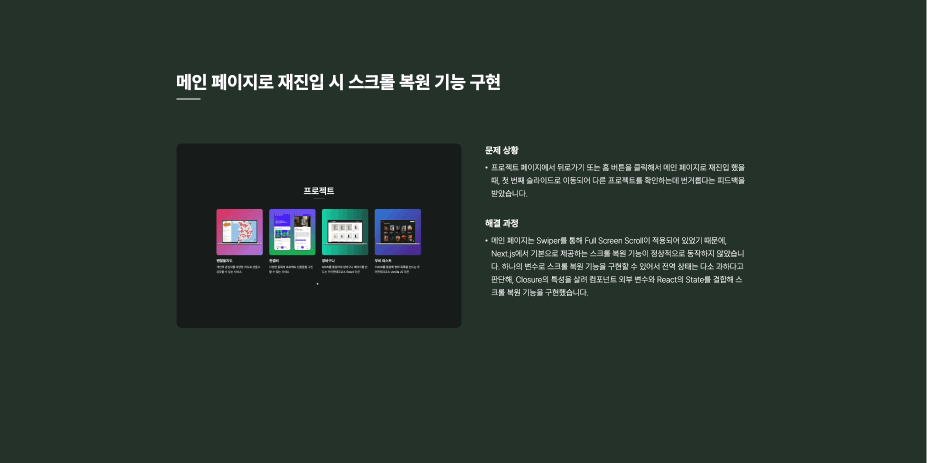
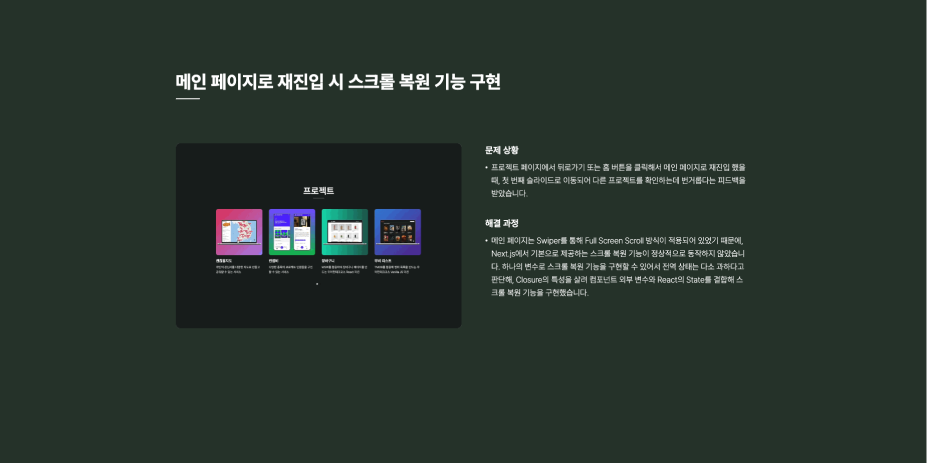
docs: 포트폴리오 파트 해결 과정 설명 보완

diff --git a/src/constants/details.tsx b/src/constants/details.tsx
@@ -945,7 +945,7 @@ const DETAILS: Detail = {
         {
           heading: '해결 과정',
           descriptions: [
-            'Thumb Swiper 기능을 활용하여 프로젝트 페이지 구조를 볼 수 있고 해당 페이지로 이동할 수 있는 네비게이션 기능을 구현해 사용자가 원하는 페이지를 보다 빠르고 간편하게 이동할 수 있도록 했습니다.',
+            'Thumb Swiper 기능과 Mouse Enter 이벤트를 활용하여 프로젝트 페이지 구조를 볼 수 있고 해당 페이지로 이동할 수 있는 네비게이션 기능을 구현했습니다. 이를 통해, 사용자가 원하는 페이지를 보다 빠르고 간편하게 이동할 수 있도록 했습니다.',
           ],
         },
       ],
@@ -965,7 +965,7 @@ const DETAILS: Detail = {
         {
           heading: '해결 과정',
           descriptions: [
-            '페이지마다 가려진 요소의 유무를 파악하여 최초 접속에 한에서 가려진 요소의 일부를 화면에 잠시 노출시키는 힌트 기능을 구현했습니다. 이를 통해 사용자가 가려진 요소를 인지하는데 도움이 되도록 했습니다.',
+            'React의 State를 통해 사용자의 현재 슬라이드 위치를 파악해 해당 페이지에 가려진 요소가 있고 최초 접속한 경우라면, 가려진 요소의 일부를 화면에 잠시 노출시키는 힌트 기능을 구현했습니다. 이를 통해 사용자가 가려진 요소를 인지하는데 도움이 되도록 했습니다.',
           ],
         },
       ],
@@ -985,7 +985,7 @@ const DETAILS: Detail = {
         {
           heading: '해결 과정',
           descriptions: [
-            '메인 페이지는 Swiper를 통해 Full Screen Scroll이 적용되어 있었기 때문에, Next.js에서 기본으로 제공하는 스크롤 복원 기능이 정상적으로 동작하지 않았습니다. 하나의 변수로 스크롤 복원 기능을 구현할 수 있어서 전역 상태는 다소 과하다고 판단해, Closure의 특성을 살려 컴포넌트 외부 변수와 React의 State를 결합해 스크롤 복원 기능을 구현했습니다.',
+            '메인 페이지는 Swiper를 통해 Full Screen Scroll 방식이 적용되어 있었기 때문에, Next.js에서 기본으로 제공하는 스크롤 복원 기능이 정상적으로 동작하지 않았습니다. 하나의 변수로 스크롤 복원 기능을 구현할 수 있어서 전역 상태는 다소 과하다고 판단해, Closure의 특성을 살려 컴포넌트 외부 변수와 React의 State를 결합해 스크롤 복원 기능을 구현했습니다.',
           ],
         },
       ],
